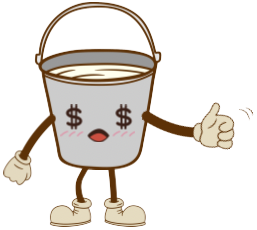
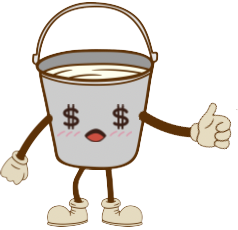
Responsividade limite  1024px

diff --git a/assets/css/style.css b/assets/css/style.css
@@ -34,7 +34,7 @@ body {
 
 #img img{
     width: 100%;
-    width: 32rem;
+    width: 30rem;
 }
 
 @keyframes fadeInAnimation{
@@ -44,17 +44,17 @@ body {
 
 #calculator {
     background-color: #262626;
-    padding: 2rem;
+    padding: 0.75rem;
     border-radius: 8px;
     box-shadow: 10px 10px 10px rgba(0, 0, 0, 0.323);
     display: flex;
     flex-direction: column;
-    gap: 2rem;
-    margin-right: 2rem;
+    gap: 0.75rem;
+    margin-right: 1rem;
 }
 
 #title {
-    font-size: 2.8rem;
+    font-size: 1.5rem;
     position: relative;
 }
 
@@ -62,7 +62,7 @@ body {
     position: absolute;
     content: '';
     height: 3px;
-    width: 8rem;
+    width: 9.5rem;
     background: #A7CB28;
     bottom: 0;
     left: 0;
@@ -71,11 +71,11 @@ body {
 #input_box {
     display: flex;
     flex-direction: column;
-    gap: 1.5rem;
+    gap: 0.3rem;
 }
 
 #input_box label {
-    font-size: 1.75rem;
+    font-size: 0.75rem;
     font-weight: 500;
     color: #c9cbcd;
 
@@ -95,7 +95,7 @@ body {
     border: none;
     border-bottom: 1px solid #A7CB28;
     color: #f8fafc;
-    font-size: 1.5rem;
+    font-size: 1rem;
     width: 100%;
 
 }
@@ -105,35 +105,36 @@ body {
 }
 
 .input_field .error-message{
-    color: red;
+    color: rgb(255, 1, 94);
+    font-size: 0.650rem;
 }
 
 .input_field input.error {
-    border-bottom: 1px solid red;
+    border-bottom: 1px solid rgb(255, 1, 94);
 }
 
 #total {
-    font-size: 2.5rem;
+    font-size: 1rem;
     color: #e1e2e3;
     font-weight: 700;
 }
 
 span img {
     vertical-align: middle;
-    height: 120px;
-    margin: 2 2;
+    width: 3.5rem;
 }
 
 #calculate {
     background-color: #839f1f;
     color: #f8fafc;
     border: none;
-    padding: 0.5rem 0;
+    padding: 0.3rem 0;
     font-weight: bold;
-    font-size: 1.25rem;
+    font-size: 0.750rem;
     border-radius: 3px;
     cursor: pointer;
-    margin-top: 0.5rem;
+    margin: 0 auto;
+    width: 50%;
 }
 
 #calculate:hover {
@@ -146,7 +147,7 @@ span img {
 
 #more_info {
     border-top: 1px solid #ffffff34;
-    padding-top: 1.5rem;
+    padding-top: 0.5rem;
 }
 
 #more_info a{
@@ -154,8 +155,8 @@ span img {
     display: flex;
     justify-content: center;
     align-items: center;
-    gap: 0.6rem;
-    font-size: 0.875rem;
+    gap: 0.5rem;
+    font-size: 0.5rem;
     text-decoration: none;
     transition: color 0.5s;
 }
